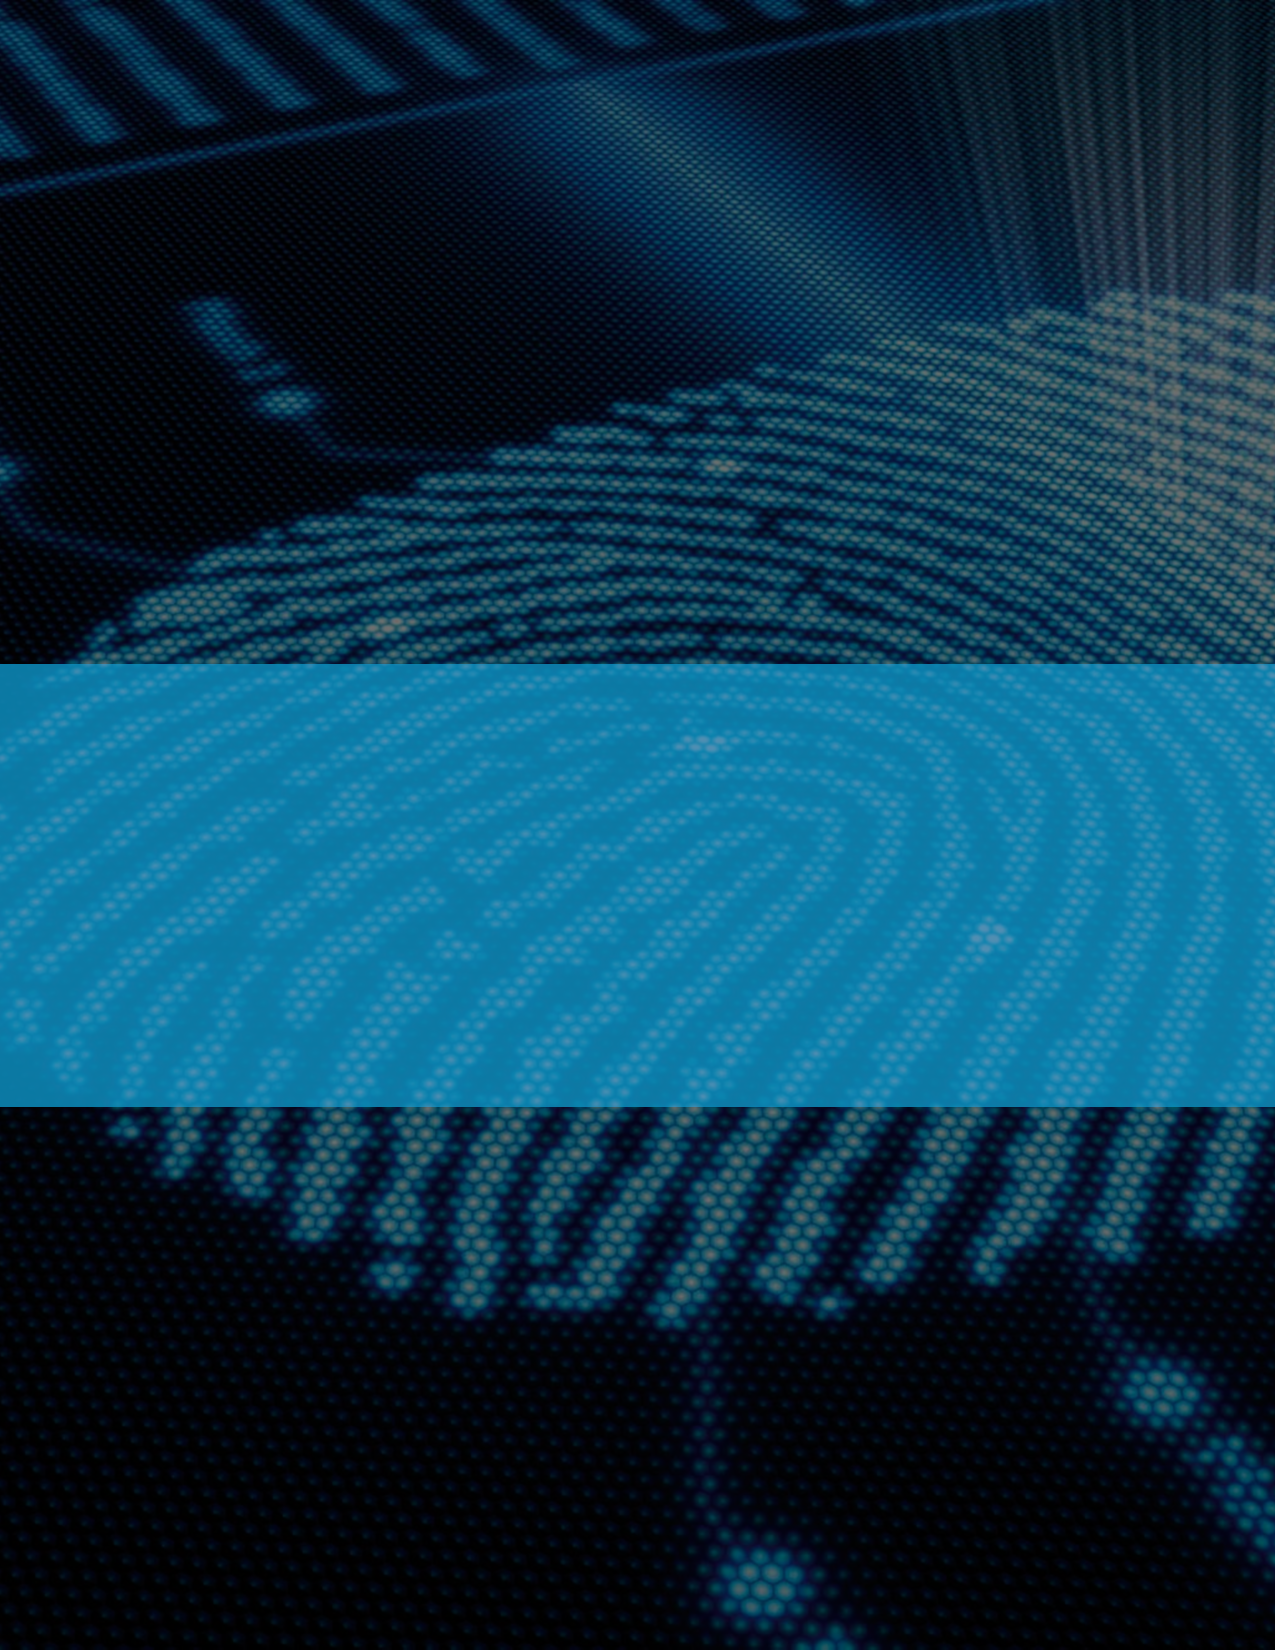
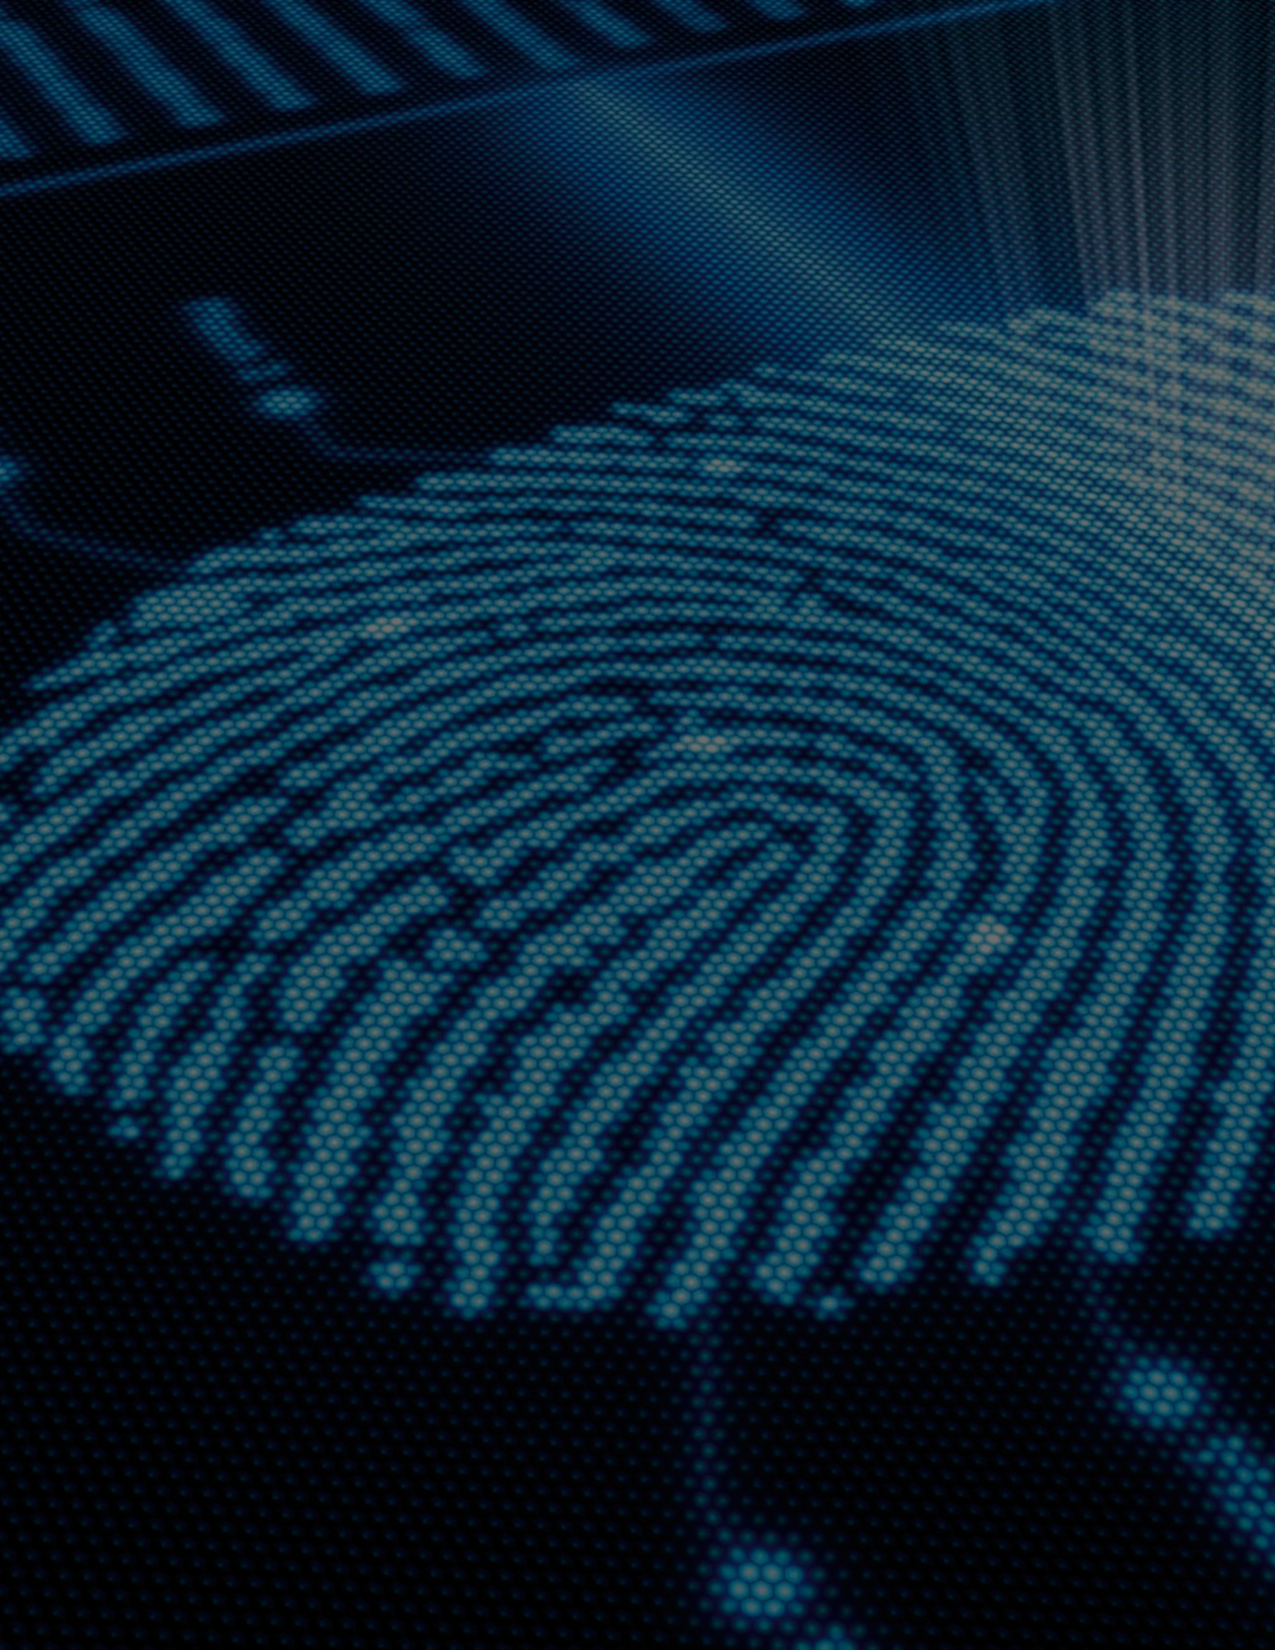
added overlay in latex instead of image

Changed region(s): [[0.0, 0.4018, 1.0, 0.68]]

diff --git a/main.tex b/main.tex
@@ -1,5 +1,6 @@
 \documentclass{awesome} % Default font size and left-justified equations
 \definecolor{ocre}{RGB}{52,177,201} % Define the orange color used for highlighting throughout the bookgs
+\definecolor{overlaycolor}{HTML}{12a6de}
 \addbibresource{bibliography.bib} % BibTeX bibliography file
 \input{structure} % Insert the commands.tex file which contains the majority of the structure behind the template
 %\usepackage{listings}
